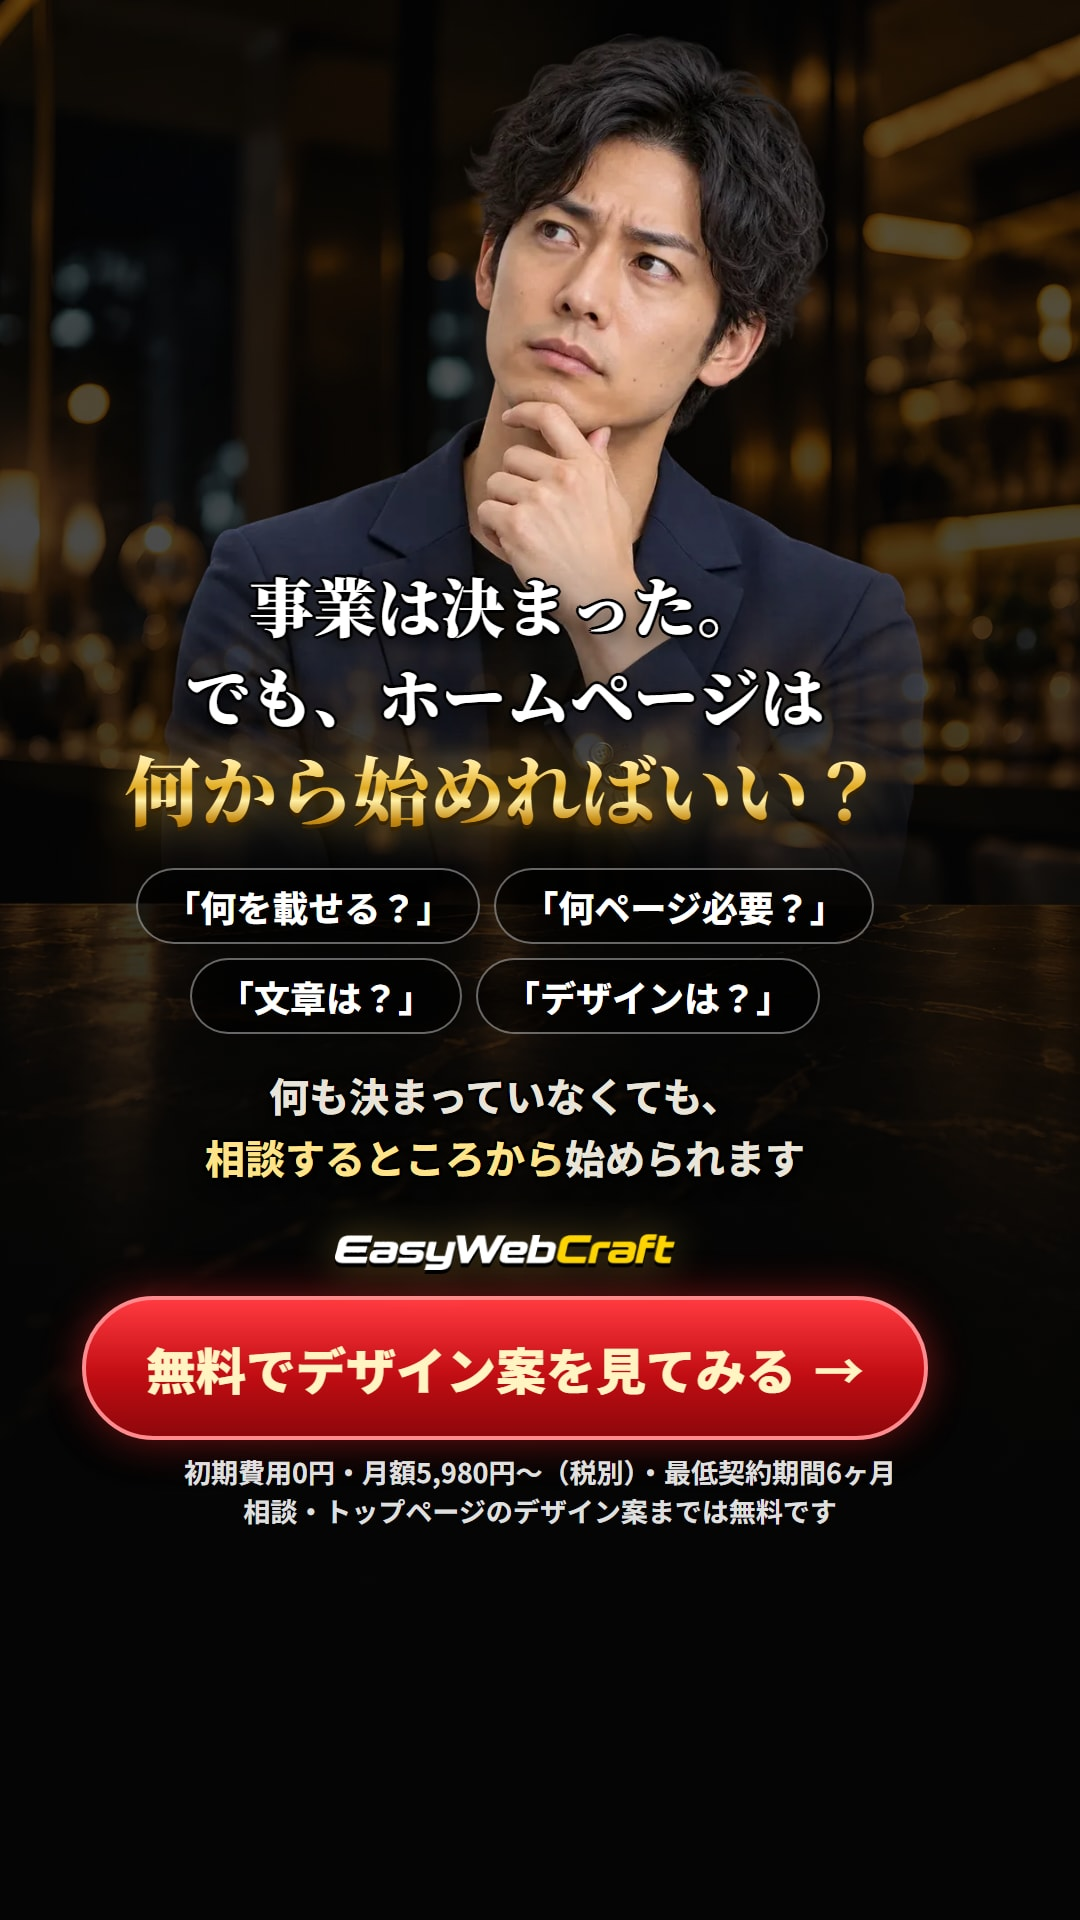
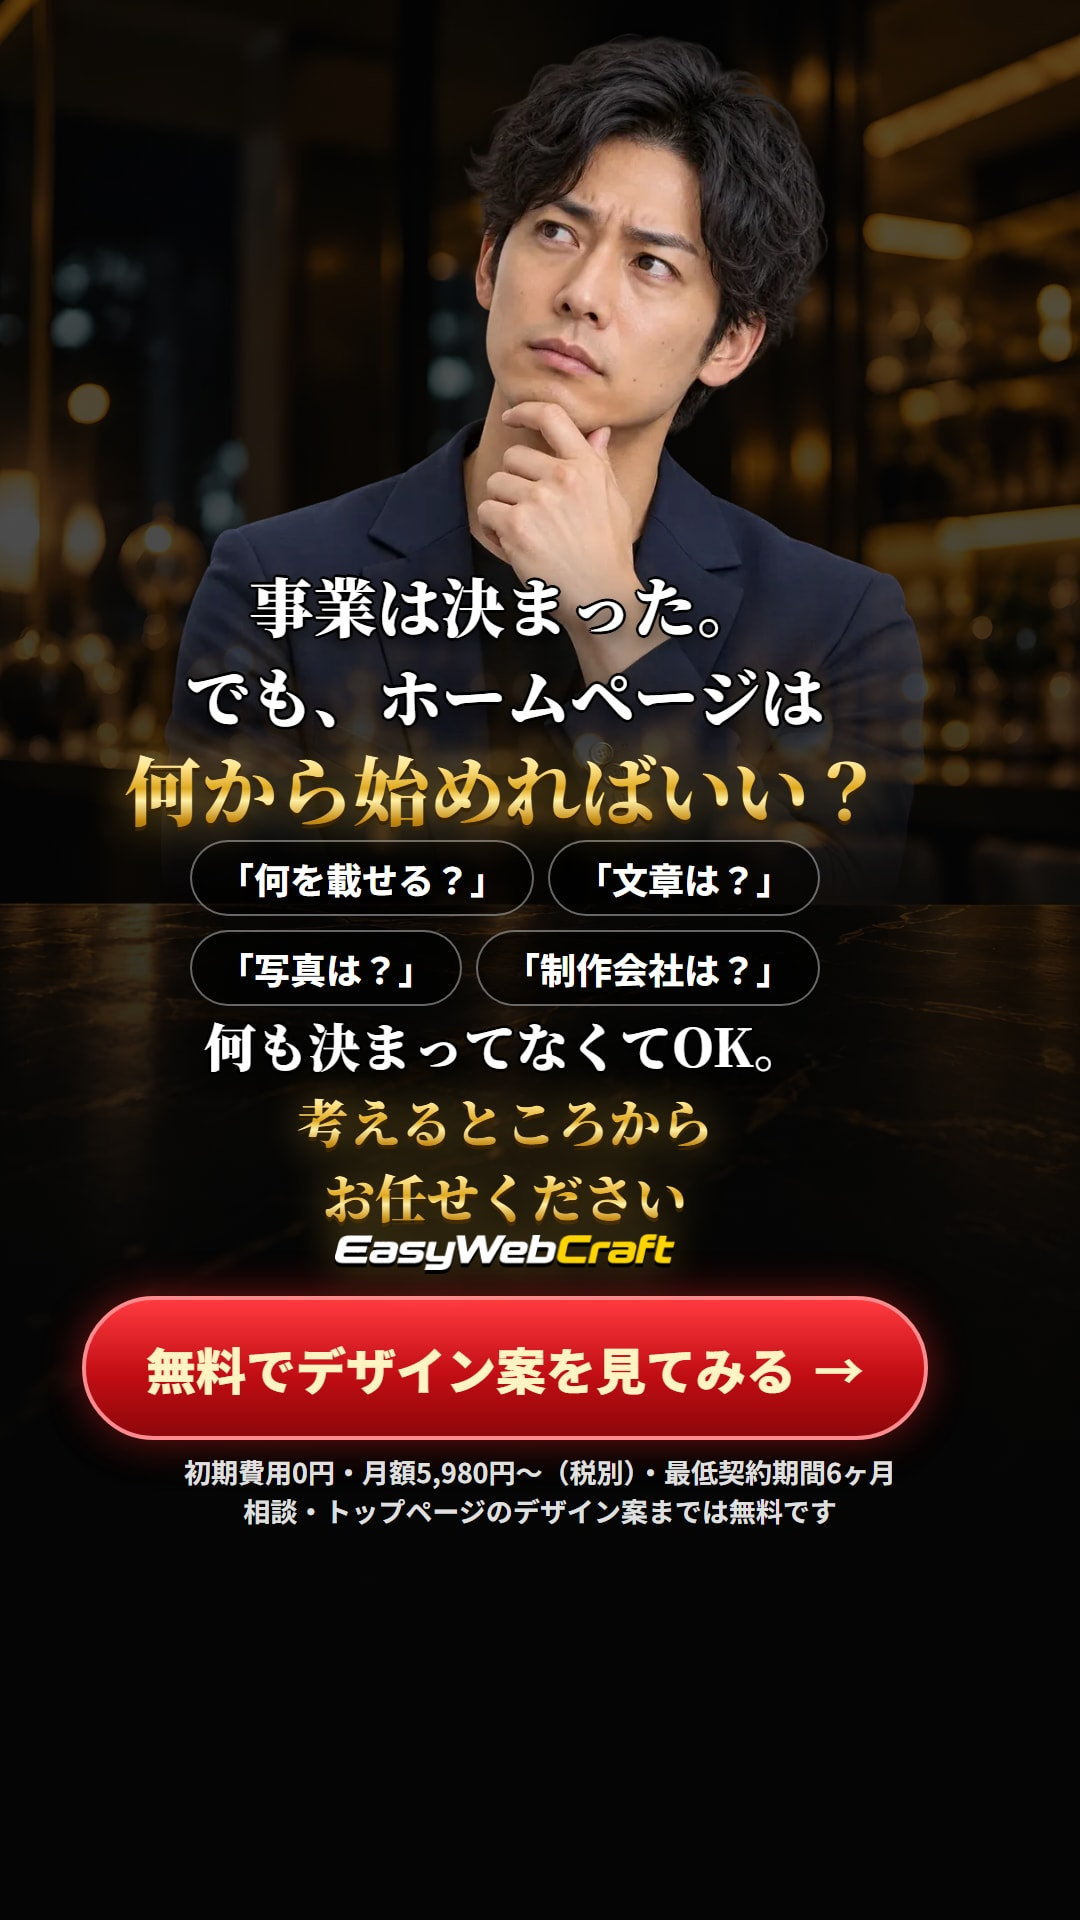
挑戦LP広告6案を改善（C3を依頼先の迷いに差し替え、C1情報削減、C2ストーリー化、C4・C5・C6を起業直後向けに）
Claude-Session: https://claude.ai/code/session_01G65TiHfa1BUco43NvNDLJF

Changed region(s): [[0.1222, 0.4375, 0.7639, 0.6562]]

diff --git a/challenge/ads.html b/challenge/ads.html
@@ -110,6 +110,14 @@ body{width:1080px; font-family:"Noto Sans JP",sans-serif; color:#fff; background
 #c2 .samples img{height:160px}
 #c2 .offer .p b{font-size:160px}
 #c2 .blogo{margin-bottom:18px}
+
+.todo{display:grid; grid-template-columns:repeat(3,1fr); gap:14px; width:100%}
+.todo span{padding:16px 0; border:2px solid rgba(255,255,255,.35); border-radius:14px; background:rgba(0,0,0,.55); font-weight:900; font-size:42px; position:relative}
+.todo span::after{content:""; position:absolute; left:18%; right:18%; top:50%; height:4px; background:#ff5a5f; transform:rotate(-8deg); opacity:.0}
+#c2 .q{font-size:60px; padding:24px 30px}
+#c2 .offer .p b{font-size:170px}
+#c1 .in{top:500px}
+#c3 .offer{padding:14px 34px} #c3 .offer .p b{font-size:140px} #c3 .serif.gold{white-space:nowrap}
 </style>
 </head>
 <body>
@@ -118,20 +126,19 @@ body{width:1080px; font-family:"Noto Sans JP",sans-serif; color:#fff; background
 <section class="ad face" id="c1">
   <div class="photo up"></div>
   <div class="in">
-    <p class="label">起業・開業したばかりの<br><b>経営者様へ</b></p>
+    <p class="label">起業したばかりの<br><b>経営者様へ</b></p>
     <div class="g20"></div>
-    <p class="serif outline hpline">ホームページ制作が</p>
-    <p class="zero outline" style="font-size:48px">初期費用<span class="n gold" style="font-size:88px">0</span>円</p>
-    <p class="price outline" style="font-size:52px">月額<span class="n gold" style="font-size:160px">5,980</span>円〜</p>
-    <div class="g10"></div>
-    <p class="cancel outline" style="font-size:42px">7ヶ月目から<em>いつでも解約OK</em></p>
+    <p class="serif outline hpline">ホームページ制作</p>
     <div class="g20"></div>
-    <p class="svc outline">月額制ホームページ制作サービス</p>
-    <img class="logo logo-s" src="img/logo-fv.webp" alt="EasyWebCraft">
+    <p class="zero outline" style="font-size:52px">初期費用<span class="n gold" style="font-size:96px">0</span>円</p>
+    <p class="price outline" style="font-size:52px">月額<span class="n gold" style="font-size:170px">5,980</span>円〜</p>
     <div class="g30"></div>
+    <p class="serif outline" style="font-size:50px; line-height:1.4">しかも、契約前に<br><span class="gold" style="font-size:1.2em">デザインを確認できます</span></p>
+    <div class="sp"></div>
+    <img class="logo blogo" src="img/logo-fv.webp" alt="EasyWebCraft">
     <p class="cta">無料でデザイン案を見てみる</p>
   </div>
-  <p class="fine">※税別（税込6,578円〜）・最低契約期間6ヶ月<br>7ヶ月目以降はいつでも解約できます</p>
+  <p class="fine">※税別（税込6,578円〜）・最低契約期間6ヶ月<br>無料のデザイン案はトップページ1ページ分です</p>
 </section>
 
 <!-- C2 安すぎて不安 → 契約前にデザイン案0円 -->
@@ -139,36 +146,41 @@ body{width:1080px; font-family:"Noto Sans JP",sans-serif; color:#fff; background
   <div class="in">
     <p class="q"><span class="d">でも……</span>こんなに安くて本当に<br><b>ちゃんとしたHP</b>が<br>できるの？</p>
     <div class="g20"></div>
+    <p class="sub outline" style="font-size:44px">「安すぎて不安…」<br>そう思うのは当然です。</p>
+    <div class="g20"></div>
     <div class="arrow"></div>
     <div class="g20"></div>
-    <p class="serif gold" style="font-size:66px; line-height:1.35">契約する前に、<br>実際のデザインを作ります</p>
-    <div class="g20"></div>
+    <p class="serif gold" style="font-size:62px; line-height:1.35">だから、契約する前に<br>実際のデザインを作ります</p>
+    <div class="g30"></div>
     <div class="offer"><p class="h">あなたの事業専用<br>HPデザイン案</p><p class="p"><b class="gold">0</b>円</p></div>
     <div class="g20"></div>
-    <div class="samples"><img src="img/s-izakaya.webp" alt=""><img src="img/s-salon.webp" alt=""><img src="img/s-gym.webp" alt=""></div>
+    <p class="serif outline" style="font-size:48px">実物を見てから決めてください</p>
     <div class="sp"></div>
     <img class="logo blogo" src="img/logo-fv.webp" alt="EasyWebCraft">
     <p class="cta">無料でデザイン案を見てみる</p>
   </div>
-  <p class="fine">※無料はトップページ1ページ分のデザイン案です。画像はサンプル<br>ご契約後は月額5,980円〜（税別）・最低契約期間6ヶ月</p>
+  <p class="fine">※無料はトップページ1ページ分のデザイン案です<br>ご契約後は月額5,980円〜（税別）・最低契約期間6ヶ月</p>
 </section>
 
 <!-- C3 検索されても出てこない → 他社へ -->
-<section class="ad face" id="c3">
-  <div class="photo think"></div>
+<section class="ad" id="c3">
   <div class="in">
-    <p class="serif outline" style="font-size:66px; line-height:1.4">あなたの会社名、検索したら<br><span class="red">何が出てきますか？</span></p>
-    <div class="g40"></div>
-    <div class="chain">
-      <div class="c1">ホームページが<span class="red">見つからない</span></div>
-      <div class="c2">「本当にここで大丈夫？」</div>
-      <div class="c3">そのまま他社へ……</div>
-    </div>
+    <p class="serif outline" style="font-size:58px; line-height:1.4">起業した。<br>ホームページも必要。</p>
+    <div class="g20"></div>
+    <p class="serif red outline" style="font-size:76px; line-height:1.25">でも、どこに<br>頼めばいい？</p>
+    <div class="g20"></div>
+    <div class="chips"><span>制作会社？</span><span>フリーランス？</span><span>自分で作る？</span></div>
+    <div class="g20"></div>
+    <div class="arrow"></div>
+    <div class="g20"></div>
+    <p class="serif gold" style="font-size:54px; line-height:1.35">迷っているなら、<br>まずデザインを見て決めてください</p>
+    <div class="g20"></div>
+    <div class="offer"><p class="h">あなたの事業専用<br>HPデザイン案</p><p class="p"><b class="gold">0</b>円</p></div>
     <div class="sp"></div>
     <img class="logo blogo" src="img/logo-fv.webp" alt="EasyWebCraft">
     <p class="cta">無料でデザイン案を見てみる</p>
   </div>
-  <p class="fine">初期費用0円・月額5,980円〜（税別）・最低契約期間6ヶ月<br>相談・トップページのデザイン案までは無料です</p>
+  <p class="fine">初期費用0円・月額5,980円〜（税別）・最低契約期間6ヶ月<br>無料のデザイン案はトップページ1ページ分です</p>
 </section>
 
 <!-- C4 事業は決まった、HPは何から？ -->
@@ -178,9 +190,9 @@ body{width:1080px; font-family:"Noto Sans JP",sans-serif; color:#fff; background
     <p class="serif outline" style="font-size:64px; line-height:1.4">事業は決まった。<br>でも、ホームページは</p>
     <p class="serif gold" style="font-size:76px; line-height:1.3; white-space:nowrap">何から始めればいい？</p>
     <div class="g30"></div>
-    <div class="chips"><span>「何を載せる？」</span><span>「何ページ必要？」</span><span>「文章は？」</span><span>「デザインは？」</span></div>
+    <div class="chips"><span>「何を載せる？」</span><span>「文章は？」</span><span>「写真は？」</span><span>「制作会社は？」</span></div>
     <div class="g30"></div>
-    <p class="sub outline">何も決まっていなくても、<br><em>相談するところから</em>始められます</p>
+    <p class="serif outline" style="font-size:52px; line-height:1.45">何も決まってなくてOK。<br><span class="gold">考えるところから<br>お任せください</span></p>
     <div class="sp"></div>
     <img class="logo blogo" src="img/logo-fv.webp" alt="EasyWebCraft">
     <p class="cta">無料でデザイン案を見てみる</p>
@@ -189,39 +201,38 @@ body{width:1080px; font-family:"Noto Sans JP",sans-serif; color:#fff; background
 </section>
 
 <!-- C5 本業が忙しくて手が回らない -->
-<section class="ad face" id="c5">
-  <div class="photo think"></div>
+<section class="ad" id="c5">
   <div class="in">
-    <p class="serif outline" style="font-size:60px; line-height:1.4">本業が忙しくて<br>ホームページまで<br><span class="red" style="font-size:1.2em">手が回らない…</span></p>
-    <div class="g20"></div>
+    <p class="serif outline" style="font-size:66px; line-height:1.4">起業したばかり。</p>
+    <div class="g30"></div>
+    <div class="todo"><span>営業</span><span>集客</span><span>経理</span><span>採用</span><span>仕入れ</span><span>届出</span></div>
+    <div class="g30"></div>
+    <p class="serif outline" style="font-size:60px; line-height:1.4">やることだらけで<br><span class="red" style="font-size:1.2em">HPまで手が回らない</span></p>
+    <div class="g30"></div>
     <div class="arrow"></div>
-    <div class="g20"></div>
-    <p class="serif gold" style="font-size:66px">本業に集中したままでOK</p>
-    <div class="g20"></div>
-    <div class="checks two">
-      <div>文章づくり</div><div>ページ構成</div><div>デザイン</div><div>更新・保守</div>
-    </div>
-    <div class="g20"></div>
-    <p class="sub outline" style="font-size:42px"><em>まとめてお任せください</em></p>
+    <div class="g30"></div>
+    <p class="serif gold" style="font-size:58px; line-height:1.4">文章・構成・デザインまで<br>まとめてお任せください</p>
     <div class="sp"></div>
     <img class="logo blogo" src="img/logo-fv.webp" alt="EasyWebCraft">
     <p class="cta">無料でデザイン案を見てみる</p>
   </div>
-  <p class="fine">初期費用0円・月額5,980円〜（税別）・最低契約期間6ヶ月<br>更新の範囲はプランにより異なります</p>
+  <p class="fine">初期費用0円・月額5,980円〜（税別）・最低契約期間6ヶ月<br>相談・トップページのデザイン案までは無料です</p>
 </section>
 
 <!-- C6 高い・縛り・難しい → 3つの安心 -->
 <section class="ad" id="c6">
   <div class="in">
-    <p class="serif outline" style="font-size:64px; line-height:1.45">ホームページって<br><span class="red">高い・縛りが長い・難しい</span><br>と思っていませんか？</p>
-    <div class="g60"></div>
+    <p class="serif outline" style="font-size:62px; line-height:1.45">起業したばかりだから、<br><span class="red">HPに大金はかけられない</span></p>
+    <div class="g40"></div>
+    <div class="arrow"></div>
+    <div class="g40"></div>
     <div class="three">
       <div><p class="k">初期費用</p><p class="v"><b class="gold">0</b>円</p></div>
-      <div><p class="k">契約前の<br>デザイン案</p><p class="v"><b class="gold">0</b>円</p></div>
-      <div><p class="k">7ヶ月目から</p><p class="v t">いつでも解約OK</p></div>
+      <div><p class="k">デザイン案</p><p class="v"><b class="gold">0</b>円</p></div>
+      <div><p class="k">月額</p><p class="v"><b class="gold" style="font-size:96px">5,980</b>円〜</p></div>
     </div>
     <div class="g30"></div>
-    <p class="price outline" style="font-size:48px">月額<span class="n gold" style="font-size:140px">5,980</span>円〜</p>
+    <p class="cancel outline" style="font-size:44px">7ヶ月目から<em>いつでも解約OK</em></p>
     <div class="sp"></div>
     <img class="logo blogo" src="img/logo-fv.webp" alt="EasyWebCraft">
     <p class="cta">無料でデザイン案を見てみる</p>

diff --git a/challenge/index.html b/challenge/index.html
@@ -38,23 +38,23 @@ code{background:var(--bg); padding:0 5px; border-radius:4px; font-size:.88em; wo
   <header>
     <h1>挑戦LP向け TikTok広告画像 6案</h1>
     <p class="lead">LP（黒×金）と同じ背景・色・言葉で作った縦長画像です。広告から開いたときに、LPと同じ世界観がそのまま続くようにしています。</p>
-    <div class="spec"><span>1080×1920（9:16）</span><span>文字はTikTokのUIがかぶらない範囲</span><span>税別・最低契約期間・無料の範囲の注記入り</span><span>C1・C3・C4・C5は顔出し版</span></div>
+    <div class="spec"><span>1080×1920（9:16）</span><span>文字はTikTokのUIがかぶらない範囲</span><span>税別・最低契約期間・無料の範囲の注記入り</span><span>C1・C4は顔出し版</span></div>
   </header>
 
   <div class="grid">
-    <div class="card"><img src="jpg/c1.jpg" alt="起業・開業したばかりの経営者様へ 月額5,980円〜"><div class="no"><b>C1</b>対象×価格</div><span class="star">顔出し</span><span class="tgt">起業・開業したばかり</span><span class="star">LPのFVと同じ訴求</span><p class="cap">起業・開業したばかりの経営者様へ。初期費用0円・月額5,980円〜（税別）で、7ヶ月目からいつでも解約OK。</p></div>
-    <div class="card"><img src="jpg/c2.jpg" alt="契約する前に実際のデザインを作ります"><div class="no"><b>C2</b>安すぎて不安？</div><span class="tgt">価格に不安がある人</span><span class="star">一番強いオファー</span><p class="cap">「安いけど大丈夫？」と思ったら。契約する前に、あなたの事業専用のHPデザイン案を無料で作ります。</p></div>
-    <div class="card"><img src="jpg/c3.jpg" alt="あなたの会社名、検索したら何が出てきますか？"><div class="no"><b>C3</b>検索されても出てこない</div><span class="star">顔出し</span><span class="tgt">HPを後回しにしている人</span><p class="cap">お客様は問い合わせる前に、会社名を検索しています。HPがないまま、他社に流れていませんか？</p></div>
-    <div class="card"><img src="jpg/c4.jpg" alt="事業は決まった。でも、ホームページは何から始めればいい？"><div class="no"><b>C4</b>何から始めれば？</div><span class="star">顔出し</span><span class="tgt">HPの知識がない人</span><p class="cap">何を載せる？何ページ必要？何も決まっていなくても、相談するところから始められます。</p></div>
-    <div class="card"><img src="jpg/c5.jpg" alt="本業が忙しくてホームページまで手が回らない"><div class="no"><b>C5</b>手が回らない</div><span class="star">顔出し</span><span class="tgt">本業が忙しい人</span><p class="cap">文章・構成・デザイン・公開後の更新まで、まとめてお任せ。本業に集中したままでOKです。</p></div>
-    <div class="card"><img src="jpg/c6.jpg" alt="高い・縛りが長い・難しいと思っていませんか？"><div class="no"><b>C6</b>3つの安心</div><span class="tgt">費用・契約が不安な人</span><p class="cap">初期費用0円、契約前のデザイン案0円、7ヶ月目からいつでも解約OK。月額5,980円〜（税別）。</p></div>
+    <div class="card"><img src="jpg/c1.jpg?v=2" alt="起業したばかりの経営者様へ ホームページ制作 月額5,980円〜"><div class="no"><b>C1</b>起業直後×価格</div><span class="tgt">起業したばかり</span><span class="star">顔出し</span><p class="cap">起業したばかりの経営者様へ。ホームページ制作が初期費用0円・月額5,980円〜（税別）。契約前にデザインを確認できます。</p></div>
+    <div class="card"><img src="jpg/c2.jpg?v=2" alt="こんなに安くて本当にちゃんとしたHPができるの？"><div class="no"><b>C2</b>安すぎて不安？</div><span class="tgt">価格に不安がある人</span><span class="star">主力候補</span><p class="cap">「安すぎて不安…」そう思うのは当然です。だから、契約する前にあなたの事業専用のHPデザイン案を無料で作ります。</p></div>
+    <div class="card"><img src="jpg/c3.jpg?v=2" alt="起業した。でも、どこに頼めばいい？"><div class="no"><b>C3</b>どこに頼めばいい？</div><span class="tgt">依頼先で迷っている人</span><span class="star">新規</span><p class="cap">制作会社？フリーランス？自分で作る？迷っているなら、まずデザインを見て決めてください。デザイン案は0円です。</p></div>
+    <div class="card"><img src="jpg/c4.jpg?v=2" alt="事業は決まった。でも、ホームページは何から始めればいい？"><div class="no"><b>C4</b>何から始めれば？</div><span class="tgt">HPの知識がない人</span><span class="star">顔出し</span><p class="cap">何を載せる？文章は？写真は？制作会社は？何も決まってなくてOK。考えるところからお任せください。</p></div>
+    <div class="card"><img src="jpg/c5.jpg?v=2" alt="起業したばかり。やることだらけでHPまで手が回らない"><div class="no"><b>C5</b>手が回らない</div><span class="tgt">本業が忙しい人</span><span class="star">人物写真は差し替え予定</span><p class="cap">営業、集客、経理…やることだらけの起業直後。文章・構成・デザインまで、まとめてお任せください。</p></div>
+    <div class="card"><img src="jpg/c6.jpg?v=2" alt="起業したばかりだから、HPに大金はかけられない"><div class="no"><b>C6</b>安心3点セット</div><span class="tgt">比較検討中の人（リターゲティング向き）</span><p class="cap">初期費用0円・デザイン案0円・月額5,980円〜（税別）。7ヶ月目からいつでも解約OK。</p></div>
   </div>
 
   <div class="box">
     <h2>テストの進め方（おすすめ）</h2>
     <ol>
-      <li>まず C1・C2・C3 の3本で1〜2週間回し、「価格」「オファー」「危機感」のどれが反応するかを見る</li>
-      <li>反応の良かった切り口に近いもの（C4〜C6）と入れ替えて2回目のテスト</li>
+      <li>まず C2・C3・C4 の3本で1〜2週間回し、「価格への不安」「依頼先の迷い」「何から始めるか」のどれが反応するかを見る</li>
+      <li>反応の良かった切り口に近いもの（C1・C5）と入れ替えて2回目のテスト。C6は一度LPを見た人へのリターゲティングに使う</li>
       <li>リンク先はすべて <code>https://easywebcraft.github.io/ewc-lp-challenge/</code></li>
     </ol>
   </div>
